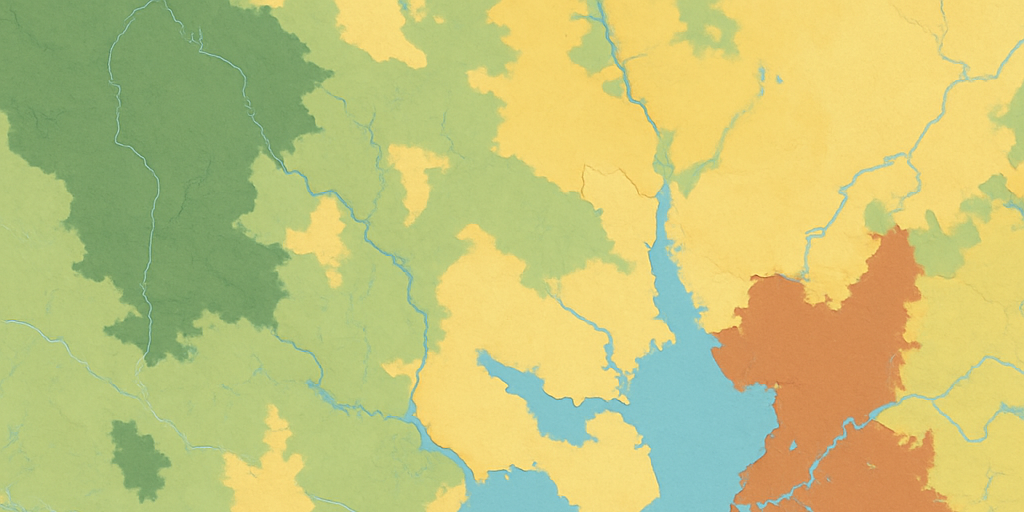
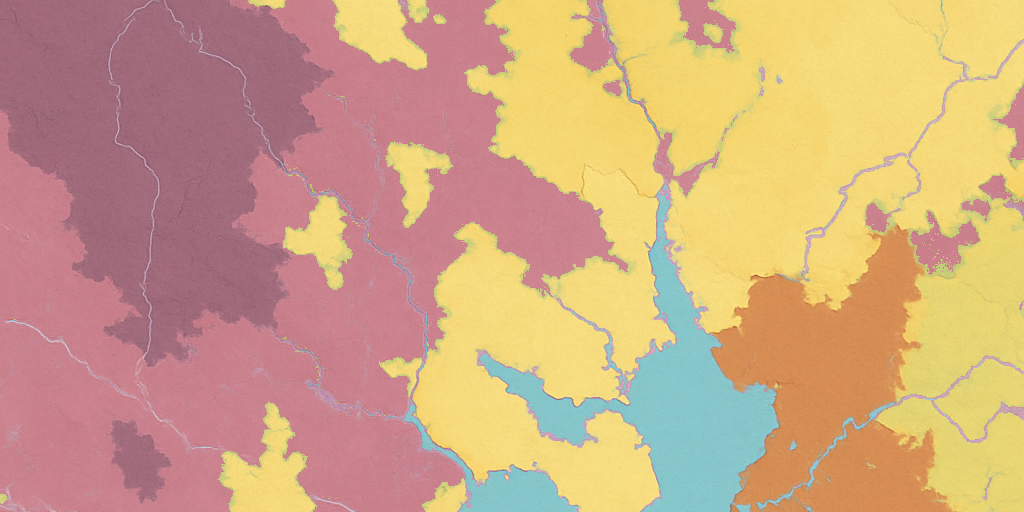
Replace the teal/green theme with Spatchat pink
Defines a pink brand scale in the Tailwind theme and renames every teal-* class to brand-*. Buttons use a softer pink; links and headings use a deeper shade for contrast. The hero land-cover image has its greens recoloured to rose. Partner logos are left as they are.

diff --git a/src/styles/global.css b/src/styles/global.css
@@ -1,1 +1,15 @@
 @import "tailwindcss";
+
+/* The Spatchat pink (from the logo) replaces Tailwind's teal everywhere on the site. Use `brand-*` classes. */
+@theme {
+  --color-brand-50: #fff1f6;
+  --color-brand-100: #ffe3ed;
+  --color-brand-200: #ffcadb;
+  --color-brand-300: #ffadc7;
+  --color-brand-400: #ff8db3;
+  --color-brand-500: #fd7ba7;
+  --color-brand-600: #fb749f;
+  --color-brand-700: #fa6a98;   /* buttons */
+  --color-brand-800: #d94a80;   /* button hover, headings, links */
+  --color-brand-900: #a8305f;   /* link hover */
+}
